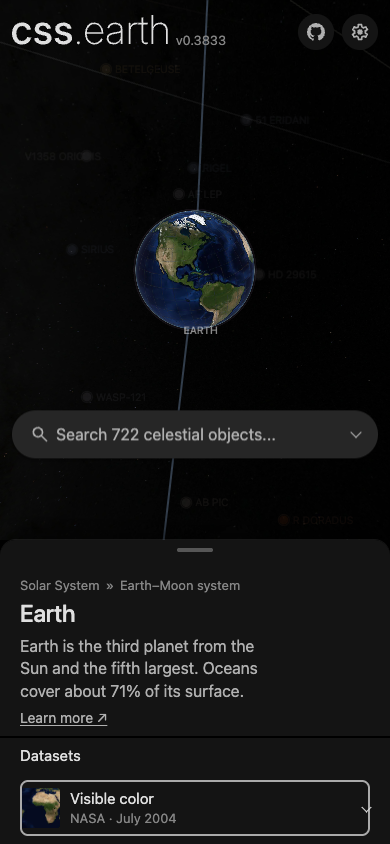
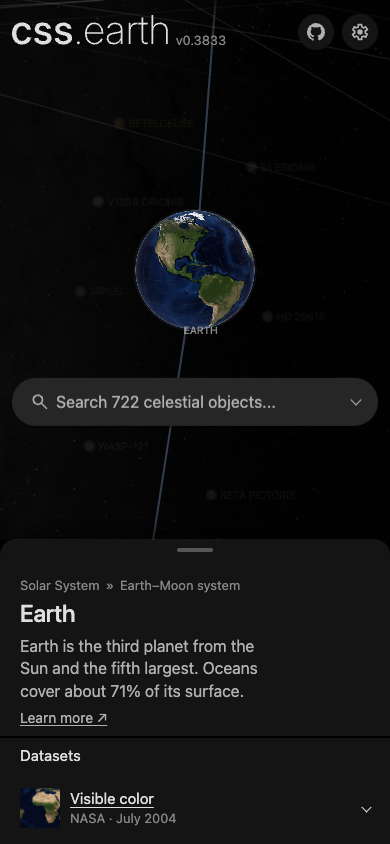
fix(a11y): use label underlines and local focus hints

Changed region(s): [[0.0308, 0.0, 0.9846, 0.6469], [0.0615, 0.9242, 0.9538, 1.0], [0.0308, 0.9242, 0.0615, 0.9858]]

diff --git a/site/object-shell.css b/site/object-shell.css
@@ -61,8 +61,12 @@
   cursor: pointer;
   outline: 0;
 }
-/* Only this small, static wrapper changes on focus; camera updates do not affect the selector. */
-.object-lens-picker-display:focus-within { outline: 2px solid var(--shell-focus); outline-offset: -2px; }
+/* Focus stays on the label inside this static shell control, outside camera updates. */
+.object-lens-picker-display:focus-within .object-lens-picker-label {
+  text-decoration: underline;
+  text-decoration-thickness: 2px;
+  text-underline-offset: 3px;
+}
 .object-lens-picker-current { flex: 1; min-width: 0; }
 .object-lens-picker-selection { display: flex; align-items: center; gap: 10px; min-width: 0; }
 .object-lens-picker-selection[hidden] { display: none; }
@@ -106,7 +110,11 @@
   background: transparent;
 }
 .object-lens-picker .object-observation-control { min-height: 30px; padding: 3px 0; }
-.object-lens-picker .object-observation-control:focus-visible { outline: 2px solid var(--shell-focus); outline-offset: -2px; }
+.object-lens-picker .object-observation-control:focus-visible .object-lens-label {
+  text-decoration: underline;
+  text-decoration-thickness: 2px;
+  text-underline-offset: 3px;
+}
 .object-lens-picker .object-observation-control.object-thumbnail-leading:has(.object-lens-detail) {
   grid-template-columns: 14px minmax(0, max-content) minmax(16px, 1fr) max-content;
 }
@@ -192,7 +200,19 @@
 }
 
 .object-surface-minimap[data-dragging="true"] { cursor: grabbing; }
-.object-surface-minimap:focus-visible { outline: 2px solid var(--shell-focus); outline-offset: -2px; }
+.object-surface-minimap:focus { outline: none; }
+.object-surface-minimap:focus-visible::after {
+  content: "↑ ↓ ← →   + −";
+  position: absolute;
+  right: 6px;
+  bottom: 6px;
+  padding: 2px 6px;
+  border-radius: 4px;
+  color: var(--shell-text);
+  background: var(--shell-surface);
+  font: var(--shell-font-value);
+  pointer-events: none;
+}
 
 .object-surface-minimap[data-ready="true"] > .object-lens-texture { opacity: .35; }
 

diff --git a/site/site.css b/site/site.css
@@ -141,7 +141,20 @@ html:not([data-scene-presented="true"]) .object-world-stage { opacity: 0.001; }
 html[data-scene-presented="true"] .object-input-surface { pointer-events: auto; }
 /* Embedded scenes keep the shell in the DOM (the runtime binds to it) but out of layout, so camera framing ignores it. */
 html[data-embed] .object-ui-layer { display: none !important; }
-.object-input-surface:focus-visible { outline: 2px solid var(--shell-focus); outline-offset: -4px; }
+.object-input-surface:focus { outline: none; }
+.object-input-surface:focus-visible::after {
+  content: attr(aria-label);
+  position: absolute;
+  top: 76px;
+  left: 50%;
+  transform: translateX(-50%);
+  padding: 4px 10px;
+  border-radius: 4px;
+  color: var(--shell-text);
+  background: var(--shell-surface);
+  font: var(--shell-font-value);
+  pointer-events: none;
+}
 
 .object-scene-overlays {
   position: absolute;

diff --git a/docs/performance/motion-freezes-membership.md b/docs/performance/motion-freezes-membership.md
@@ -10,7 +10,8 @@ changes land once the coast stops, a paced slice per frame.
 Navigation targets expose a named button role only while available. Repeated publication of the same target writes
 no accessibility attributes; a focus point outside the measured viewport leaves the tab order after the coast.
 Minimap arrow keys read the current camera on keydown, without publishing camera coordinates as DOM attributes.
-Keyboard focus outlines belong to the individual control or its small shell wrapper, outside the moving world.
+Keyboard focus uses label underlines and local view/map hints on the control or its small shell wrapper, outside the
+moving world. These styles change with focus, not with camera frames.
 
 While a hand or the app drives the camera (a drag, an active zoom or pinch, a flight), the view keeps updating, so you
 can see where you are heading. Crossings between levels of detail are staged ahead: the next level is made resident at
